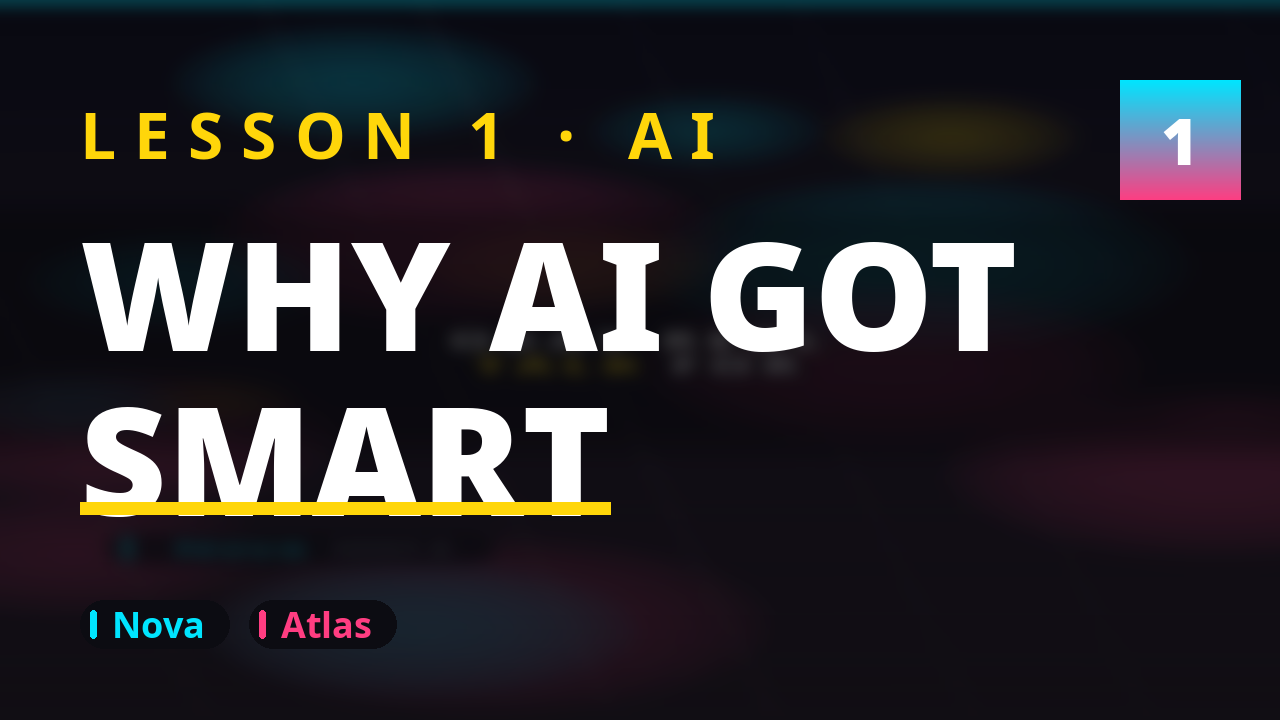
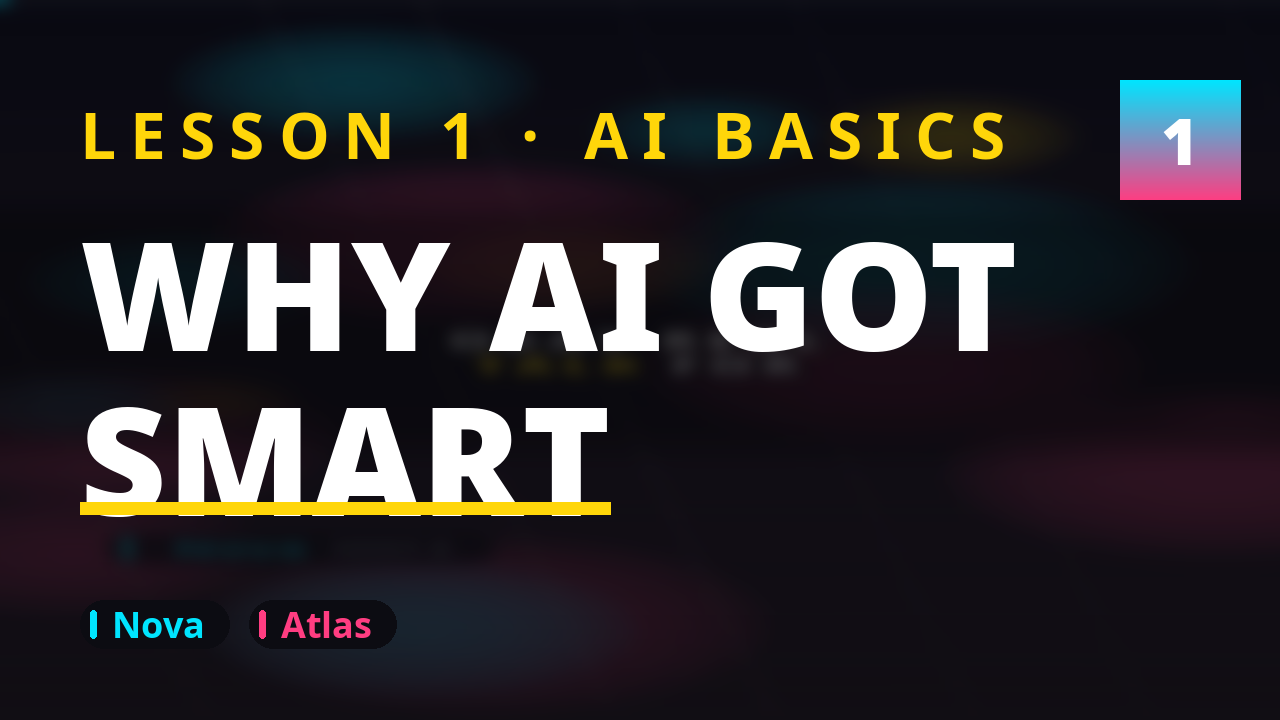
fix(claudemy): Barka audit tweaks - growing progress bar, eyebrow, card border
- Progress bar: drawbox w='W*t/dur' never evaluates per-frame t on this
  ffmpeg build (bar rendered full-width, track invisible). Pre-render the
  bar as a PIL PNG sequence (10 fps: track #2A2A35@70% + growing
  cyan->pink gradient fill + 1px separator) fed as an image2 input with
  overlay=0:0. Verified: fill width == 1080*t/duration at t=5/65/120s.
- Thumbnail eyebrow: cap 1000->1020px, tracking 18->14, so the eyebrow
  keeps 'LESSON 1 * AI BASICS' clear of the badge.
- One-rule card: gradient border ring 6px -> 8px (ONE_RULE_BORDER_W).
- Tests: ProgressBarPreRender (frame count, empty->full, monotonic
  growth, track+separator), ThumbnailEyebrow (keeps BASICS, fits badge
  gap), OneRuleCardBorder (8px ring on the straight edge).

Changed region(s): [[0.0938, 0.1528, 0.7812, 0.2444], [0.0, 0.0, 1.0, 0.0306]]

diff --git a/skills/claudemy/scripts/render_video.py b/skills/claudemy/scripts/render_video.py
@@ -360,6 +360,40 @@ def render_scrim(path):
     img.save(path)
 
 
+BAR_FPS = 10       # pre-rendered bar animation rate (overlay repeats frames)
+BAR_H = 8          # spec §7: 8px tall, top edge y=0..8
+BAR_SEP_H = 1      # 1px black@0.5 separator under the bar (y=8)
+
+
+def render_progress_bar(tmp_dir, duration):
+    """Pre-render the top progress bar as a PNG sequence (BAR_FPS x duration).
+
+    The ffmpeg build on this VM does NOT evaluate per-frame `t` in
+    drawbox's `w` (verified 2026-10-18: w='1080*t/dur' rendered full-width
+    at every sampled time), so the growing fill is baked frame-by-frame:
+    track #2A2A35@70% + growing horizontal cyan->pink gradient fill +
+    1px black@0.5 separator. Fed back as a `-framerate BAR_FPS` image2
+    input, overlay=0:0. Returns the frame count.
+    """
+    n = max(2, int(round(duration * BAR_FPS)))
+    strip = Image.new("RGBA", (W, BAR_H), (0, 0, 0, 0))
+    gd = ImageDraw.Draw(strip)
+    c0, c1 = hex_to_rgb(PAL["host_a"]), hex_to_rgb(PAL["host_b"])
+    for x in range(W):
+        t = x / (W - 1)
+        col = tuple(int(c0[i] + (c1[i] - c0[i]) * t) for i in range(3)) + (255,)
+        gd.line([(x, 0), (x, BAR_H - 1)], fill=col)
+    track = hex_to_rgb(PAL["track"]) + (int(255 * 0.7),)
+    for i in range(n):
+        fw = int(round(W * i / (n - 1)))  # frame 0: empty track, last: full
+        img = Image.new("RGBA", (W, BAR_H + BAR_SEP_H), track)
+        if fw > 0:
+            img.paste(strip.crop((0, 0, fw, BAR_H)), (0, 0))
+        ImageDraw.Draw(img).line([(0, BAR_H), (W - 1, BAR_H)], fill=(0, 0, 0, 128))
+        img.save(tmp_dir / f"bar-{i:04d}.png")
+    return n
+
+
 def render_lower_third(name, tag, color_hex, path):
     """Speaker pill: bottom-left x=90, y-top=1420, h=84, radius 28, accent bar."""
     name_f = _font(FONTS["bold"], 44)
@@ -395,12 +429,19 @@ def _wrap(draw, text, font, max_w, max_lines):
     return lines[:max_lines]
 
 
+# One-rule card gradient border width (visible ring). Barka's audit recipe said
+# 3px -> 4px, but the rendered ring was actually 6px (inner panel inset 6);
+# bumped to 8px for the same proportional visibility increase.
+ONE_RULE_BORDER_W = 8
+
+
 def render_rule_card(headline, sub, path):
     """The one-rule card: centered glass panel x=90..990, y=700..1160."""
     img = Image.new("RGBA", (W, H), (0, 0, 0, 0))
     d = ImageDraw.Draw(img)
     x0, x1, y0, y1 = 90, 990, 700, 1160
-    # gradient border: cyan -> pink outer rect, ink inner rect inset 6
+    bw = ONE_RULE_BORDER_W
+    # gradient border: cyan -> pink outer rect, ink inner rect inset bw
     grad = Image.new("RGBA", (x1 - x0, y1 - y0), (0, 0, 0, 0))
     gd = ImageDraw.Draw(grad)
     c0, c1 = hex_to_rgb(PAL["host_a"]), hex_to_rgb(PAL["host_b"])
@@ -411,7 +452,8 @@ def render_rule_card(headline, sub, path):
     mask = Image.new("L", (x1 - x0, y1 - y0), 0)
     ImageDraw.Draw(mask).rounded_rectangle([0, 0, x1 - x0 - 1, y1 - y0 - 1], radius=36, fill=255)
     img.paste(grad, (x0, y0), mask)
-    d.rounded_rectangle([x0 + 6, y0 + 6, x1 - 6, y1 - 6], radius=30, fill=(10, 10, 20, 225))
+    d.rounded_rectangle([x0 + bw, y0 + bw, x1 - bw, y1 - bw], radius=36 - bw,
+                        fill=(10, 10, 20, 225))
     # success check left of eyebrow
     ey = _font(FONTS["bold"], 52)
     amber = hex_to_rgb(PAL["amber"])
@@ -562,13 +604,17 @@ def render_lesson(lesson_dir, audio, words_path, meta, assets_dir, out_path, sho
         ass.write_text(build_ass(groups, duration, rule_beat), encoding="utf-8")
         scrim = tmp / "scrim.png"
         render_scrim(scrim)
+        # progress bar: pre-rendered PNG sequence (drawbox can't do per-frame
+        # width on this ffmpeg build) -> image2 input index 2, overlay=0:0
+        render_progress_bar(tmp, duration)
+        bar_seq = tmp / "bar-%04d.png"
 
         # lower-thirds: one PNG per turn (skip the one-rule beat: the card owns it)
         lt_inputs, lt_filters, lt_idx = [], [], 0
         vlabel = "0:v"
         fc = [f"[{vlabel}][1:v]overlay=0:0:eof_action=pass[b0]"]
         vlabel = "[b0]"
-        inp = 2
+        inp = 3
         for i, t in enumerate(turns):
             if rule_beat and t["start"] < rule_beat[1] and t["end"] > rule_beat[0]:
                 continue
@@ -599,17 +645,12 @@ def render_lesson(lesson_dir, audio, words_path, meta, assets_dir, out_path, sho
             vlabel = "[vcard]"
             inp += 1
         fc.append(f"{vlabel}ass='{ass}'[vass]")
-        dur = duration
-        fc.append(f"[vass]drawbox=x=0:y=0:w={W}:h=8:c='{PAL['track']}@0.7':t=fill,"
-                  f"drawbox=x=0:y=0:w='{W}*t/{dur:.3f}':h=8:c='{PAL['host_a']}':t=fill:"
-                  f"enable='between(t,0,{dur / 2:.3f})',"
-                  f"drawbox=x=0:y=0:w='{W}*t/{dur:.3f}':h=8:c='{PAL['host_b']}':t=fill:"
-                  f"enable='between(t,{dur / 2:.3f},{dur:.3f})',"
-                  f"drawbox=x=0:y=8:w={W}:h=1:c='black@0.5':t=fill,"
-                  f"format=yuv420p[vout]")
+        fc.append(f"[vass][2:v]overlay=0:0:eof_action=pass,format=yuv420p[vout]")
         cmd = (["ffmpeg", "-y", "-loglevel", "error",
                 "-i", str(base),
-                "-loop", "1", "-t", f"{duration:.3f}", "-i", str(scrim)]
+                "-loop", "1", "-t", f"{duration:.3f}", "-i", str(scrim),
+                "-framerate", str(BAR_FPS), "-loop", "1", "-t", f"{duration:.3f}",
+                "-i", str(bar_seq)]
                + lt_inputs + ["-i", str(audio),
                               "-filter_complex", ";".join(fc),
                               "-map", "[vout]", "-map", f"{inp}:a",

diff --git a/tests/test_video_pipeline.py b/tests/test_video_pipeline.py
@@ -21,6 +21,7 @@ sys.path.insert(0, str(SCRIPTS))
 import package_class  # noqa: E402
 import render_audio  # noqa: E402
 import render_video  # noqa: E402
+from PIL import Image, ImageDraw  # noqa: E402 (new visual tests need PIL)
 
 
 def W(text, start, end, speaker="A"):
@@ -298,6 +299,98 @@ class FrameSampling(unittest.TestCase):
     def test_identical_frames_fail(self):
         hs = [render_video.frame_hash(b"\x00" * 64)] * 4
         self.assertFalse(render_video.frames_are_distinct(hs, need=3))
+
+
+class ProgressBarPreRender(unittest.TestCase):
+    """Barka audit 2026-10-18: drawbox w='1080*t/dur' never evaluated per-frame
+    t on this ffmpeg build, so the bar is pre-rendered as a PNG sequence."""
+
+    def _fill_width(self, img):
+        # scan row y=4: gradient fill pixels are opaque (alpha 255),
+        # track pixels are (42,42,53) at 70% (alpha 178)
+        px = img.load()
+        w = 0
+        for x in range(img.width):
+            if px[x, 4][3] == 255:
+                w = x + 1
+            else:
+                break
+        return w
+
+    def _render(self, td, duration=3.7):
+        n = render_video.render_progress_bar(Path(td), duration)
+        frames = [Image.open(Path(td) / f"bar-{i:04d}.png") for i in range(n)]
+        return n, frames
+
+    def test_frame_count_matches_duration(self):
+        with tempfile.TemporaryDirectory() as td:
+            n, _ = self._render(td, duration=3.7)
+        self.assertEqual(n, round(3.7 * render_video.BAR_FPS))
+
+    def test_fill_starts_empty_ends_full(self):
+        with tempfile.TemporaryDirectory() as td:
+            n, frames = self._render(td)
+            self.assertEqual(self._fill_width(frames[0]), 0)
+            self.assertEqual(self._fill_width(frames[-1]), render_video.W)
+
+    def test_fill_grows_monotonically(self):
+        with tempfile.TemporaryDirectory() as td:
+            n, frames = self._render(td)
+            widths = [self._fill_width(frames[i]) for i in range(0, n, 5)]
+            self.assertTrue(all(b >= a for a, b in zip(widths, widths[1:])),
+                            f"bar fill must never shrink: {widths}")
+            self.assertGreater(widths[-1], widths[0])
+
+    def test_track_and_separator(self):
+        with tempfile.TemporaryDirectory() as td:
+            n, frames = self._render(td)
+            f0 = frames[0]
+            self.assertEqual(f0.size, (render_video.W, 9))  # 8px bar + 1px sep
+            self.assertEqual(f0.getpixel((render_video.W - 1, 4))[:3], (42, 42, 53))
+            self.assertEqual(f0.getpixel((render_video.W - 1, 4))[3], int(255 * 0.7))
+            self.assertEqual(f0.getpixel((540, 8)), (0, 0, 0, 128))  # black@0.5 sep
+
+
+class ThumbnailEyebrow(unittest.TestCase):
+    """Barka audit 2026-10-18: eyebrow must keep 'BASICS' ('LESSON 1 · AI BASICS')."""
+
+    def _fit(self):
+        d = ImageDraw.Draw(Image.new("RGB", (10, 10)))
+        font = package_class._font("NotoSans-Bold.ttf", 64)
+        return package_class._fit_eyebrow(d, "01", "AI BASICS FOR EVERYONE", font)
+
+    def test_eyebrow_keeps_basics(self):
+        self.assertEqual(self._fit(), "LESSON 1 · AI BASICS")
+
+    def test_eyebrow_fits_badge_gap(self):
+        d = ImageDraw.Draw(Image.new("RGB", (10, 10)))
+        font = package_class._font("NotoSans-Bold.ttf", 64)
+        brow = self._fit()
+        rendered = (d.textlength(brow, font=font)
+                    + package_class.THUMB_EYEBROW_TRACKING * len(brow))
+        # badge at x=1120, eyebrow starts x=80 -> 1040px truly available
+        self.assertLessEqual(rendered, 1040)
+
+
+class OneRuleCardBorder(unittest.TestCase):
+    """Barka audit 2026-10-18: gradient border reads faint -> wider ring."""
+
+    def test_border_ring_width(self):
+        with tempfile.TemporaryDirectory() as td:
+            p = Path(td) / "card.png"
+            render_video.render_rule_card("Scale plus attention beats clever rules", "", p)
+            img = Image.open(p).convert("RGBA")
+        px = img.load()
+        ring = 0
+        # y=800: straight left edge (clear of the 36px corner arcs), no text there
+        for x in range(90, 140):
+            r, g, b, a = px[x, 800]
+            if max(r, g, b) - min(r, g, b) > 60:
+                ring += 1
+            else:
+                break
+        self.assertEqual(ring, render_video.ONE_RULE_BORDER_W)
+        self.assertEqual(render_video.ONE_RULE_BORDER_W, 8)
 
 
 if __name__ == "__main__":

diff --git a/skills/claudemy/scripts/package_class.py b/skills/claudemy/scripts/package_class.py
@@ -24,6 +24,11 @@ from PIL import Image, ImageDraw, ImageFilter, ImageFont
 
 FONT_DIR = "/usr/share/fonts/truetype/noto"
 THUMB_W, THUMB_H = 1280, 720
+# Eyebrow "LESSON n · COURSE": badge sits at x=1120, eyebrow starts at x=80
+# -> 1040px truly available (Barka audit 2026-10-18: 1000px cap + 18 tracking
+# dropped "BASICS" from "LESSON 1 · AI BASICS").
+THUMB_EYEBROW_MAX_W = 1020
+THUMB_EYEBROW_TRACKING = 14
 
 
 def die(msg, hint=None):
@@ -100,6 +105,19 @@ def _font(name, size):
     return ImageFont.truetype(f"{FONT_DIR}/{name}", size)
 
 
+def _fit_eyebrow(draw, num, course, font):
+    """Build "LESSON n · COURSE", trimming words until it fits the badge gap."""
+    brow_words = f"LESSON {int(num)} · {course}".split()
+    brow = ""
+    for wd in brow_words:
+        trial = (brow + " " + wd).strip()
+        if (draw.textlength(trial, font=font)
+                + THUMB_EYEBROW_TRACKING * len(trial) > THUMB_EYEBROW_MAX_W):
+            break
+        brow = trial
+    return brow
+
+
 def _tracked(draw, xy, text, font, fill, tracking):
     x, y = xy
     for ch in text:
@@ -150,14 +168,8 @@ def render_thumbnail(lesson_dir, meta, bg=None):
     amber = _hex("#FFD60A")
     # eyebrow: LESSON 1 · COURSE (trimmed to clear the badge at x=1120)
     brow_f = _font("NotoSans-Bold.ttf", 64)
-    brow_words = f"LESSON {int(num)} · {course}".split()
-    brow = ""
-    for wd in brow_words:
-        trial = (brow + " " + wd).strip()
-        if d.textlength(trial, font=brow_f) + 18 * len(trial) > 1000:
-            break
-        brow = trial
-    _tracked(d, (80, 90), brow, brow_f, amber, 18)
+    brow = _fit_eyebrow(d, num, course, brow_f)
+    _tracked(d, (80, 90), brow, brow_f, amber, THUMB_EYEBROW_TRACKING)
     # headline: <=3 words/line, <=2 lines
     words, lines, cur = str(headline[0]).split(), [], ""
     for wd in words:
